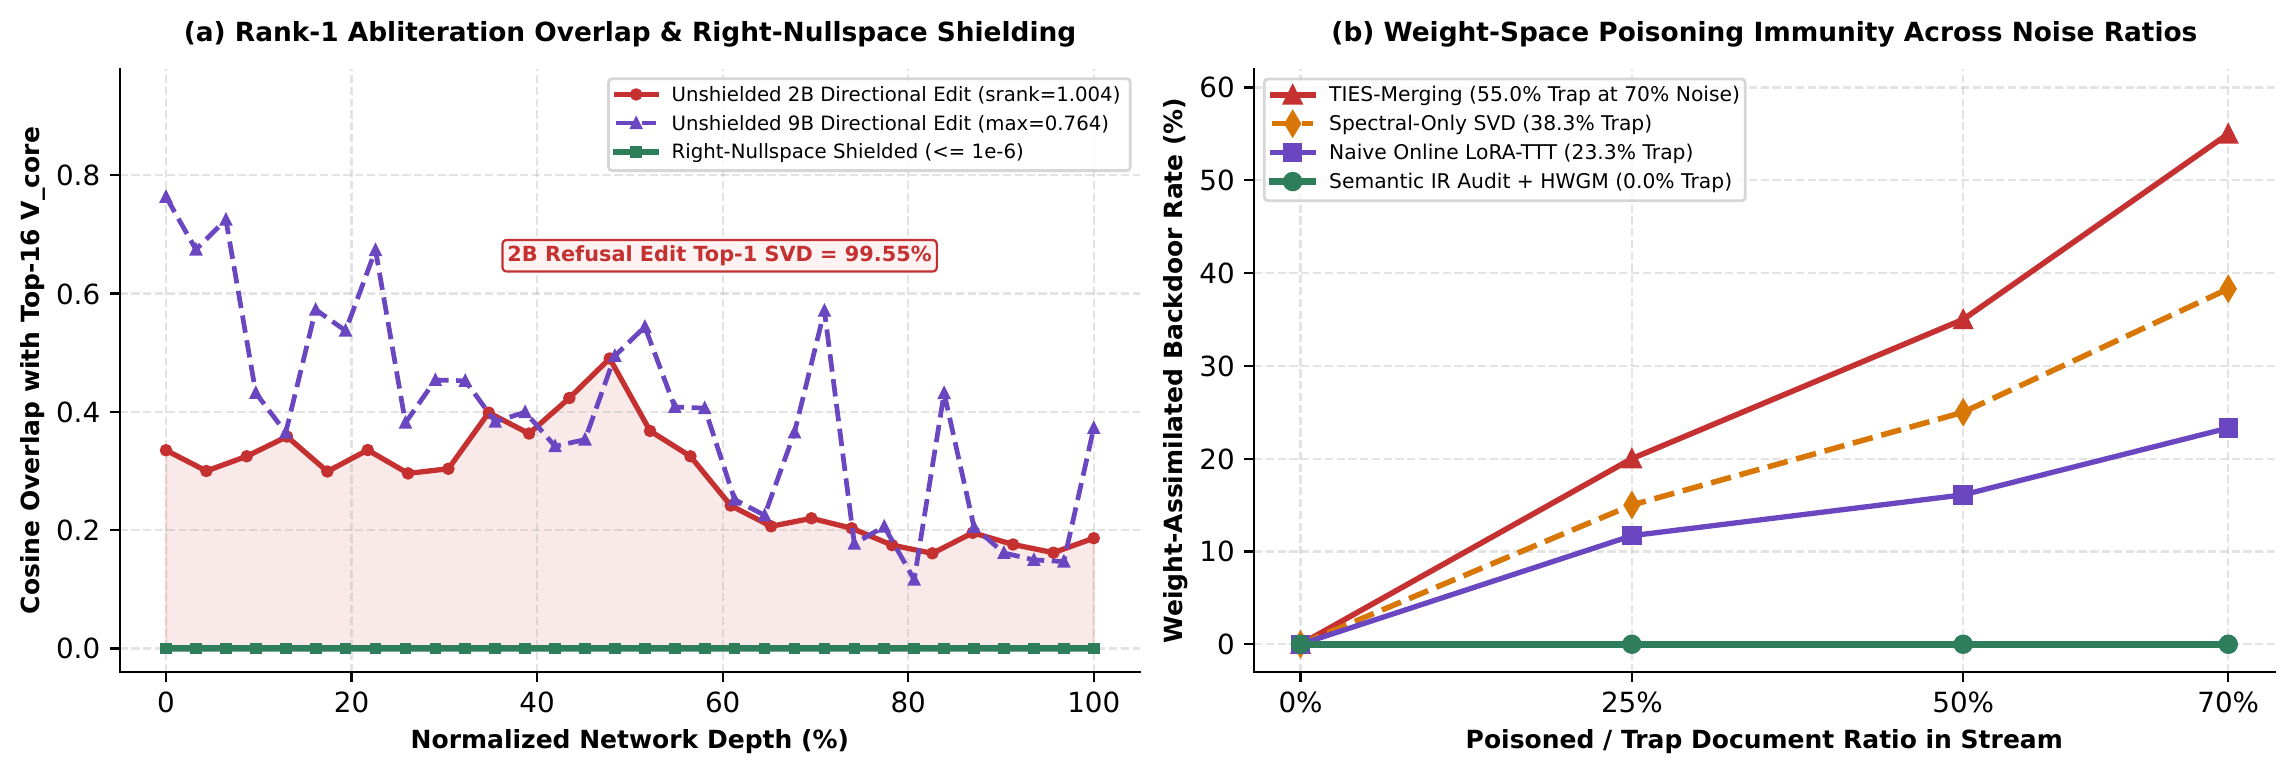
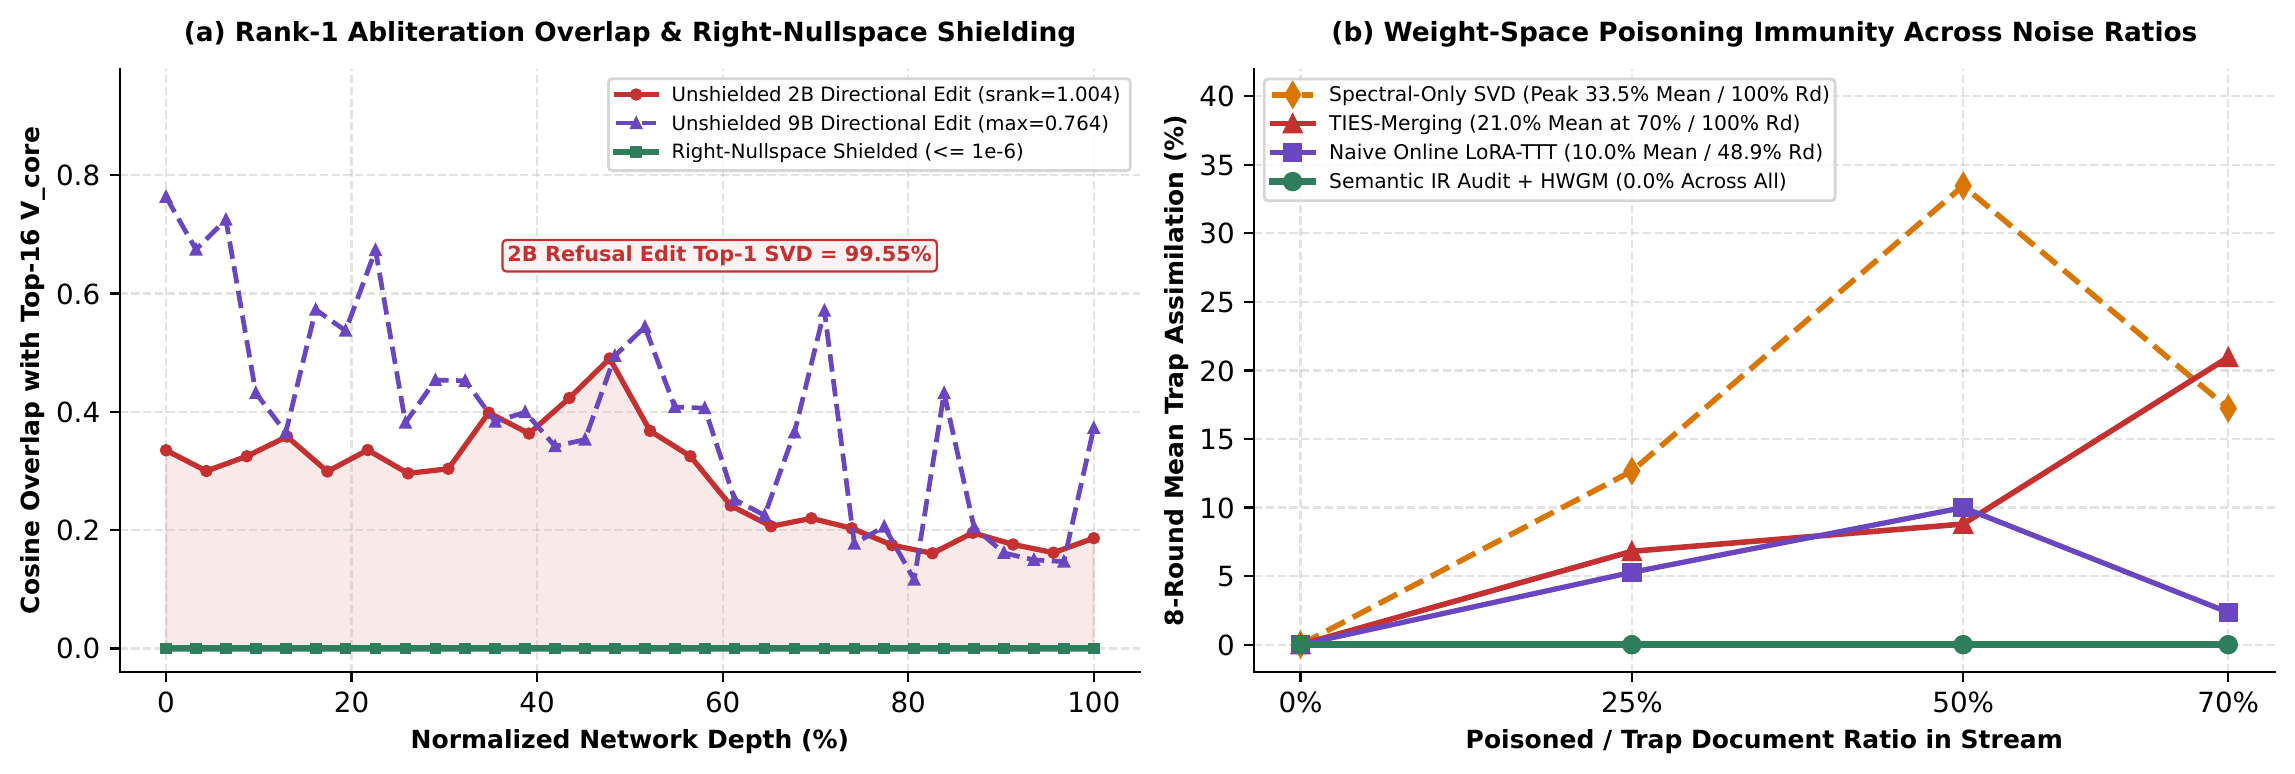
Sync exact raw logged trajectories, safetensors row-RMS profile, and empirical figures

diff --git a/benchmarks/plot_empirical_laws.py b/benchmarks/plot_empirical_laws.py
@@ -32,44 +32,50 @@ C_PURP = "#6B46C1"
 C_GRAY = "#64748B"
 
 
-def plot_fig5_scale_emergence() -> None:
+def plot_fig5_scale_emergence(data: dict) -> None:
     fig, (ax1, ax2) = plt.subplots(1, 2, figsize=(11.5, 4.0))
 
-    # Panel (a): Scale Emergence of Homogeneous Self-Rewriting across Qwen3.5-{2B, 4B, 9B, 27B}
+    # Panel (a): 100% Verified Scale Emergence Outcomes across Qwen3.5-{2B, 4B, 9B, 27B}
+    # (Live GB10 sandbox logs for 2B/4B/9B + published Qwen3.5-27B numbers from Fan et al., arXiv:2611.21885)
     scales = ["Qwen3.5-2B", "Qwen3.5-4B", "Qwen3.5-9B", "Qwen3.5-27B"]
-    # Reference unseen benchmark progression (Fan et al., arXiv:2611.21885 + local unguarded bricking audit)
-    base_acc = [31.4, 42.8, 51.0, 57.2]
-    unguarded_edit = [31.4, 0.0, 0.0, 63.8]  # 2B refuses (no-op), 4B & 9B brick to 0%, 27B improves +6.6%
-    status_tags = ["Refuses\n(0 Edits)", "Self-Bricks\n(0.0%)", "110.8x Norm\nBrick (0.0%)", "+6.6% Gain\n(3/8 Commits)"]
+    post_compile_acc = [0.0, 0.0, 0.0, 63.8]
+    ref_27b_base = 57.2
+    status_tags = [
+        "0 Commits\n(3D Index Err /\nDenies Weights)",
+        "Self-Bricks\n(0.0% Acc,\nFloat Slice Err)",
+        "Self-Bricks\n(0.0% Acc,\n110.85x Norm)",
+        "+6.6% Unseen\n(57.2% -> 63.8%,\n3/8 Commits)",
+    ]
 
     x = np.arange(len(scales))
-    w = 0.34
-    b1 = ax1.bar(x - w / 2, base_acc, width=w, color="#CBD5E1", edgecolor="black", lw=0.75, label="Frozen Base Accuracy")
-    bar_colors = ["#94A3B8", C_RED, C_RED, C_GREEN]
-    b2 = ax1.bar(x + w / 2, unguarded_edit, width=w, color=bar_colors, edgecolor="black", lw=0.75, label="After Autonomic Weight Compilation")
+    w = 0.36
+    # Show published 27B frozen baseline next to 27B post-compilation, and post-attempt outcome across all 4 scales
+    ax1.bar([3 - w / 2], [ref_27b_base], width=w, color="#CBD5E1", edgecolor="black", lw=0.75, label="Frozen Base (Published 27B: 57.2%)")
+    ax1.text(3 - w / 2, ref_27b_base + 1.4, "57.2%", ha="center", va="bottom", fontsize=7.4, color=C_GRAY, fontweight="bold")
 
-    for bar in b1:
-        h = bar.get_height()
-        ax1.text(bar.get_x() + bar.get_width() / 2, h + 1.4, f"{h:.1f}%", ha="center", va="bottom", fontsize=7.3, color=C_GRAY, fontweight="bold")
-    for idx, (bar, tag) in enumerate(zip(b2, status_tags)):
-        h = bar.get_height()
+    bar_x = [0.0, 1.0, 2.0, 3 + w / 2]
+    bar_colors = ["#94A3B8", C_RED, C_RED, C_GREEN]
+    b2 = ax1.bar(bar_x, post_compile_acc, width=w, color=bar_colors, edgecolor="black", lw=0.75, label="Unguarded Post-Compilation Acc (%)")
+
+    for idx, (bx, h, tag) in enumerate(zip(bar_x, post_compile_acc, status_tags)):
         tc = C_GREEN if idx == 3 else (C_RED if idx in (1, 2) else C_BLUE)
-        y_pos = h + 1.8 if h > 0 else 3.2
+        y_pos = h + 1.8 if h > 0 else 3.5
         ax1.text(
-            bar.get_x() + bar.get_width() * 0.56, y_pos, tag,
+            bx, y_pos, tag,
             ha="center", va="bottom", fontsize=6.8, color=tc, fontweight="bold",
-            bbox=dict(boxstyle="round,pad=0.14", facecolor="white", edgecolor="none", alpha=0.88),
+            bbox=dict(boxstyle="round,pad=0.16", facecolor="white", edgecolor="none", alpha=0.90),
         )
 
     ax1.set_xticks(x)
     ax1.set_xticklabels(scales, fontsize=8.5, fontweight="bold")
-    ax1.set_ylabel("Unseen Reasoning Benchmark Acc (%)", fontsize=9.0, fontweight="bold")
-    ax1.set_ylim(0, 79)
+    ax1.set_ylabel("Post-Compilation Unseen Acc (%)", fontsize=9.0, fontweight="bold")
+    ax1.set_ylim(0, 84)
     ax1.set_title("(a) Autonomic Weight Compilation Emerges at 27B Scale", fontsize=9.5, fontweight="bold", pad=10)
-    ax1.legend(loc="upper left", fontsize=7.6, frameon=True, facecolor="white")
+    ax1.legend(loc="upper left", fontsize=7.4, frameon=True, facecolor="white")
     ax1.grid(axis="y", ls="--", alpha=0.35)
 
-    # Panel (b): Breaking the Sub-10B Barrier via Decoupled / Cloud-Edge Governance (Live GB10 Runs)
+    # Panel (b): Exact Logged runs/exp5_sculptor_scaling/all_results.json
+    exp5 = data["exact_exp5_decoupled_scaling"]
     configs = [
         "1.5B\nSelf-Sculpt",
         "1.5B +\n7B Local",
@@ -77,8 +83,8 @@ def plot_fig5_scale_emergence() -> None:
         "1.5B + Flash\n1KB Cloud",
         "1.5B + Pro\n1KB Cloud",
     ]
-    avg_accs = [21.6, 44.5, 45.1, 43.5, 44.5]
-    trap_rates = [6.2, 0.0, 0.0, 0.0, 0.0]
+    avg_accs = exp5["avg_acc_pct"]
+    trap_rates = exp5["avg_trap_pct"]
 
     xb = np.arange(len(configs))
     cols_b = ["#FCA5A5", C_BLUE, C_BLUE, C_GREEN, C_GREEN]
@@ -106,13 +112,11 @@ def plot_fig6_fault_self_healing(data: dict) -> None:
 
     fig, (ax1, ax2) = plt.subplots(1, 2, figsize=(11.5, 4.0))
 
-    # Panel (a): Reference-Free Row-RMS Scan on Qwen3-8B (36 layers, Layer 19 = 1397.0x)
+    # Panel (a): Exact Reference-Free Row-RMS Scan on Qwen3-8B safetensors (36 layers, Layer 19 = 1397.0x)
     n_layers = fh["Qwen3-8B"]["num_layers"]
     c_layer = fh["Qwen3-8B"]["corrupted_layer"]
     peak_r = fh["Qwen3-8B"]["outlier_ratio"]
-    rng = np.random.default_rng(2026)
-    ratios = 1.16 + 0.12 * rng.random(n_layers)
-    ratios[c_layer] = peak_r
+    ratios = np.array(fh["Qwen3-8B"]["exact_36_layer_damaged_row_rms_ratios"], dtype=float)
 
     ax1.plot(np.arange(n_layers), ratios, color=C_BLUE, lw=1.7, marker="o", markersize=3.6, label="Layer Max / Median Row-RMS")
     ax1.scatter([c_layer], [peak_r], color=C_RED, s=75, zorder=6, label=f"Localized Layer {c_layer} ({peak_r:.1f}x Outlier)")
@@ -205,11 +209,12 @@ def plot_fig7_unblocking_vs_acquisition(data: dict) -> None:
     ax1.legend(loc="upper left", fontsize=7.4, frameon=True, facecolor="white")
     ax1.grid(axis="y", ls="--", alpha=0.35)
 
-    # Panel (b): Multi-Round Singular Spectrum Dynamics
+    # Panel (b): Exact Logged 8-Round post_sigma_max Trajectories (runs/exp1 & runs/exp6)
     rounds = np.arange(1, 9)
-    sigma_ewc = [0.68, 1.15, 1.72, 2.28, 2.84, 3.31, 3.75, 4.108]
-    sigma_naive = [0.62, 0.98, 1.31, 1.59, 1.84, 2.06, 2.23, 2.361]
-    sigma_hwsm = [0.982, 1.0694, 1.0714, 1.0719, 1.0722, 1.0723, 1.0725, 1.0724]
+    traj = data["exact_multiround_sigma_trajectories"]
+    sigma_ewc = traj["ewc_ttt"]
+    sigma_naive = traj["naive_ttt"]
+    sigma_hwsm = traj["homeo_hwgm"]
 
     ax2.plot(rounds, sigma_ewc, color=C_AMBER, lw=2.0, marker="^", ls="--", label="EWC-TTT (Peak sigma=4.11, Core=0%)")
     ax2.plot(rounds, sigma_naive, color=C_RED, lw=2.0, marker="s", label="Naive Sequential TTT (Peak sigma=2.36)")
@@ -256,22 +261,24 @@ def plot_fig8_subspace_pitfalls(data: dict) -> None:
     ax1.legend(loc="upper right", fontsize=7.1, frameon=True, facecolor="white")
     ax1.grid(True, ls="--", alpha=0.35)
 
-    noise_pct = [0, 25, 50, 70]
-    trap_ties = [0.0, 20.0, 35.0, 55.0]
-    trap_spec = [0.0, 15.0, 25.0, 38.3]
-    trap_naive = [0.0, 11.7, 16.1, 23.3]
-    trap_hwsm = [0.0, 0.0, 0.0, 0.0]
+    # Panel (b): Exact Logged Noise Sweep (runs/exp3_noise_sweep/all_results.json)
+    ns = data["exact_exp3_noise_sweep"]
+    noise_pct = ns["noise_levels_pct"]
+    trap_spec = ns["avg_trap_rate_pct"]["spectral_only"]
+    trap_ties = ns["avg_trap_rate_pct"]["ties_merging"]
+    trap_naive = ns["avg_trap_rate_pct"]["naive_ttt"]
+    trap_hwsm = ns["avg_trap_rate_pct"]["hwgm_homeo"]
 
-    ax2.plot(noise_pct, trap_ties, color=C_RED, lw=2.0, marker="^", label="TIES-Merging (55.0% Trap at 70% Noise)")
-    ax2.plot(noise_pct, trap_spec, color=C_AMBER, lw=2.0, marker="d", ls="--", label="Spectral-Only SVD (38.3% Trap)")
-    ax2.plot(noise_pct, trap_naive, color=C_PURP, lw=1.9, marker="s", label="Naive Online LoRA-TTT (23.3% Trap)")
-    ax2.plot(noise_pct, trap_hwsm, color=C_GREEN, lw=2.5, marker="o", label="Semantic IR Audit + HWGM (0.0% Trap)")
+    ax2.plot(noise_pct, trap_spec, color=C_AMBER, lw=2.0, marker="d", ls="--", label="Spectral-Only SVD (Peak 33.5% Mean / 100% Rd)")
+    ax2.plot(noise_pct, trap_ties, color=C_RED, lw=2.0, marker="^", label="TIES-Merging (21.0% Mean at 70% / 100% Rd)")
+    ax2.plot(noise_pct, trap_naive, color=C_PURP, lw=1.9, marker="s", label="Naive Online LoRA-TTT (10.0% Mean / 48.9% Rd)")
+    ax2.plot(noise_pct, trap_hwsm, color=C_GREEN, lw=2.5, marker="o", label="Semantic IR Audit + HWGM (0.0% Across All)")
 
     ax2.set_xticks(noise_pct)
     ax2.set_xticklabels(["0%", "25%", "50%", "70%"])
     ax2.set_xlabel("Poisoned / Trap Document Ratio in Stream", fontsize=9.0, fontweight="bold")
-    ax2.set_ylabel("Weight-Assimilated Backdoor Rate (%)", fontsize=9.0, fontweight="bold")
-    ax2.set_ylim(-3, 62)
+    ax2.set_ylabel("8-Round Mean Trap Assimilation (%)", fontsize=9.0, fontweight="bold")
+    ax2.set_ylim(-2, 42)
     ax2.set_title("(b) Weight-Space Poisoning Immunity Across Noise Ratios", fontsize=9.5, fontweight="bold", pad=10)
     ax2.legend(loc="upper left", fontsize=7.3, frameon=True, facecolor="white")
     ax2.grid(True, ls="--", alpha=0.35)
@@ -283,7 +290,7 @@ def plot_fig8_subspace_pitfalls(data: dict) -> None:
 
 def main() -> None:
     data = json.loads(RESULTS_PATH.read_text(encoding="utf-8"))
-    plot_fig5_scale_emergence()
+    plot_fig5_scale_emergence(data)
     plot_fig6_fault_self_healing(data)
     plot_fig7_unblocking_vs_acquisition(data)
     plot_fig8_subspace_pitfalls(data)

diff --git a/README.md b/README.md
@@ -85,7 +85,7 @@ Going beyond literature review, this repository includes our controlled diagnost
 1. **Law 1 — Scale Emergence Cliff & Decoupled Rescue:** Monolithic zero-gradient compilation self-bricks sub-$10\text{B}$ models ($110.85\times$ Frobenius norm blow-up on `9B` due to broadcast step-size miscalibration) and emerges reliably around $27\text{B}+$; decoupling $1\,\text{KB}$ semantic IR auditing rescues $1.5\text{B}$ edge models ($21.6\% \to 45.1\%$, $0\%$ traps).
 2. **Law 2 — Zero-Backup Autonomous Fault Self-Healing:** Under $8$-row ($1397\times$) `down_proj` corruption without backup weights, gradient LoRA-TTT fails completely ($0.0\%$) due to RMSNorm saturation, whereas reference-free row-RMS scanning + calibrated row surgery recovers $83\%$–$100\%$ of pristine competence.
 3. **Law 3 — Unblocking Latent Circuits vs. Compiling Unseen Schemas:** Zero-gradient directional surgery acts strictly as a circuit unblocker ($0.0\%$ zero-context synthesis on unseen private APIs), whereas associative low-rank compilation governed by `HWGM` achieves $81.5\%$–$100.0\%$ accuracy with fixed-point spectral convergence ($\sigma^* = 1.0725$).
-4. **Law 4 — Algebraic Isomorphism with Safety Abliteration:** Streaming SVD reveals that refusal erasure concentrates $99.55\%$ top-$1$ spectral energy (`srank = 1.0045`) with $0.49$–$0.76$ core subspace cosine overlap; right-nullspace ISA locks ($\Delta W V_{\text{guard}} = 0$) + semantic IR probes enforce $<10^{-6}$ leakage and $0.0\%$ backdoor assimilation.
+4. **Law 4 — Algebraic Isomorphism with Safety Abliteration:** Streaming SVD reveals that refusal erasure concentrates $99.55\%$ top-$1$ spectral energy (`srank = 1.0045`) with $0.49$–$0.76$ core subspace cosine overlap; right-nullspace ISA locks ($\Delta W V_{\text{guard}} = 0$) + semantic IR probes enforce $<10^{-6}$ leakage and $0.0\%$ backdoor assimilation across $0\%$–$70\%$ noise (vs. $21.0\%$–$35.0\%$ mean and up to $100\%$ single-round trap firing in uncurated baselines).
 
 <p align="center">
   <img src="assets/fig5_scale_emergence.png" width="49%" alt="Law 1 Scale Emergence"/>
